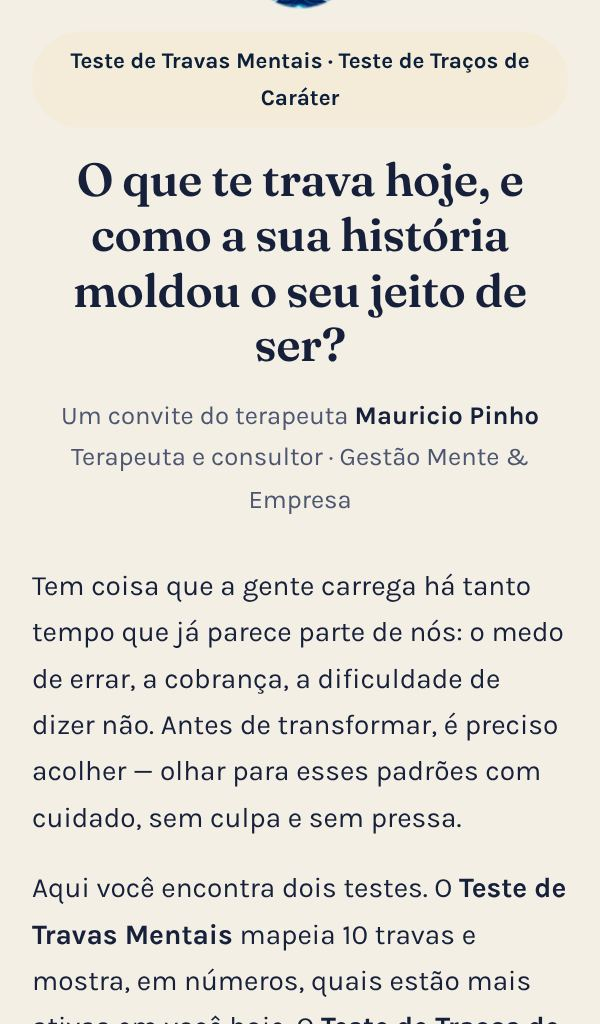
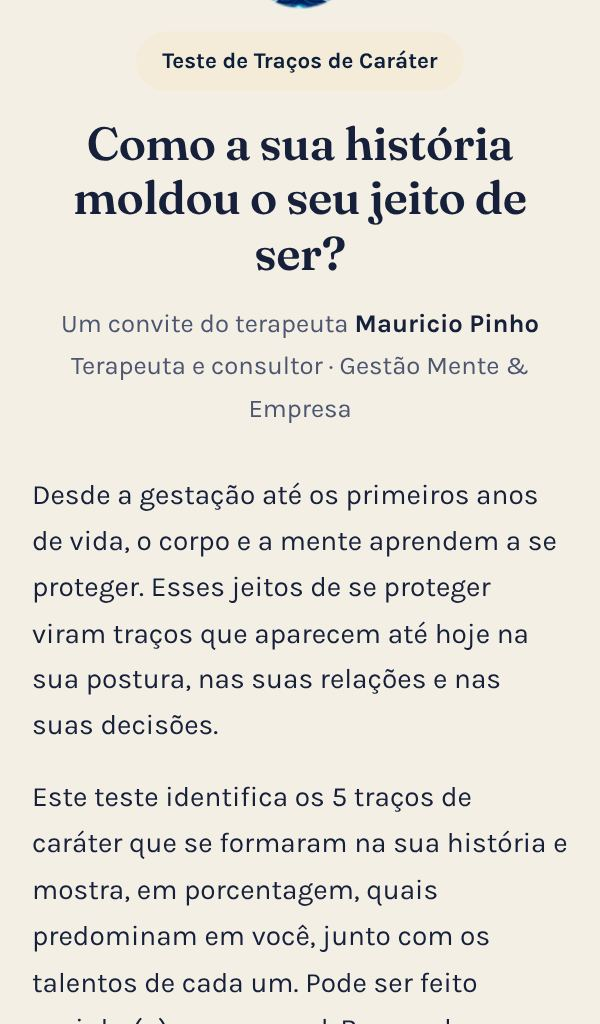
Teste de Traços de Caráter à venda para quem não tem o Teste de Travas (monta a página depois de pagar)
Claude-Session: https://claude.ai/code/session_01ABYTM9ydTnwZVq9ybeF7Jv

Changed region(s): [[0.06, 0.0312, 0.93, 0.7188], [0.06, 0.75, 0.96, 1.0], [0.9, 0.5, 0.93, 0.5312]]

diff --git a/produtos/tracos/index.html b/produtos/tracos/index.html
@@ -4,10 +4,10 @@
 <meta charset="utf-8">
 <meta name="viewport" content="width=device-width, initial-scale=1, viewport-fit=cover">
 <title>Teste de Traços de Caráter · Ressignificar</title>
-<meta name="description" content="O segundo teste da sua página: 5 traços de caráter em porcentagem, devolutiva completa, versão para casal com acordo assinado. R$ 97 por ano.">
+<meta name="description" content="A sua página de teste com o seu nome: 5 traços de caráter em porcentagem, devolutiva completa, versão para casal com acordo assinado. R$ 97 por ano.">
 <meta name="theme-color" content="#0B1F3A">
-<meta property="og:title" content="Teste de Traços de Caráter · O Teste de Travas mostra o que trava. Agora mostre de onde isso vem.">
-<meta property="og:description" content="Individual e em casal, na mesma página do seu Teste de Travas. Devolutiva pronta, acordo do casal assinado na tela.">
+<meta property="og:title" content="Teste de Traços de Caráter · Seu cliente descobre como a história dele moldou o jeito de ser">
+<meta property="og:description" content="Uma página de teste com o seu nome, individual e em casal. Devolutiva pronta, acordo do casal assinado na tela.">
 <meta property="og:image" content="https://ressignificarterapiaseconsultorias.com/produtos/img/tracos-casal.jpg">
 <link rel="icon" href="../../img/favicon.png">
 <link rel="preconnect" href="https://fonts.googleapis.com">
@@ -17,7 +17,6 @@
 <link rel="stylesheet" href="../produto.css">
 <style>
   .especial{background:#E9F6EC;color:#15502E;border:1px solid #B9DFC3;border-radius:10px;padding:10px 12px;font-weight:700;text-align:center;margin:0 0 12px}
-  .so-terapeuta{font-size:14px;text-align:center;margin:12px 0 0}
 </style>
 </head>
 <body>
@@ -35,14 +34,14 @@
 <section class="hero">
   <div class="w hero-grade">
     <div>
-      <span class="selo">Teste de Traços de Caráter · para quem já tem o Teste de Travas</span>
-      <h1>O Teste de Travas mostra o que trava. Agora mostre <em>de onde isso vem</em>.</h1>
-      <p class="lead">O segundo teste da sua página: 40 afirmações, os 5 traços de caráter em porcentagem e uma devolutiva completa, pronta para a sua sessão. Sozinho ou em casal, com a devolutiva de cada um e a dos dois.</p>
+      <span class="selo">Teste de Traços de Caráter · para terapeutas</span>
+      <h1>Seu cliente descobre <em>como a história dele moldou o jeito de ser</em>. Sozinho ou em casal.</h1>
+      <p class="lead">Uma página de teste com o seu nome e a sua foto: 40 afirmações, os 5 traços de caráter em porcentagem e uma devolutiva completa, pronta para a sua sessão. Já tem o Teste de Travas? O novo teste entra na mesma página.</p>
       <div class="cta-linha">
-        <a class="btn" href="#comprar">Quero o segundo teste na minha página</a>
-        <small>R$ 97 por ano · liberado na hora, na sua página</small>
+        <a class="btn" href="#comprar">Quero o meu Teste de Traços de Caráter</a>
+        <small>R$ 97 por ano · a sua página fica pronta em 2 minutos</small>
       </div>
-      <div class="garantias"><span>No mesmo link do seu teste</span><span>Individual e em casal</span><span>Devolutiva pronta em PDF</span></div>
+      <div class="garantias"><span>Página com o seu nome e a sua foto</span><span>Individual e em casal</span><span>Devolutiva pronta em PDF</span></div>
     </div>
     <div class="hero-telas" aria-hidden="true">
       <div class="tela-pc"><img src="../img/tracos-painel.jpg" alt="" width="1200" height="915"></div>
@@ -54,9 +53,9 @@
 <section class="dores">
   <div class="w">
     <span class="olho" style="color:var(--gold2)">Você já viveu isso</span>
-    <h2>Seu cliente vê as travas e pergunta: “mas por que eu sou assim?”</h2>
+    <h2>Seu cliente repete os mesmos padrões e pergunta: “mas por que eu sou assim?”</h2>
     <ul class="lista-dor">
-      <li>Você mostra o que pesa hoje, mas falta um mapa da raiz do padrão.</li>
+      <li>Você enxerga o padrão, mas falta um mapa que mostre a raiz dele.</li>
       <li>Casais chegam brigando pelo mesmo motivo e você não tem um mapa dos dois juntos.</li>
       <li>Montar uma devolutiva caprichada, com gráfico e plano, leva horas.</li>
       <li>O teste atrai, mas transformar o resultado em processo depende só de você.</li>
@@ -69,16 +68,16 @@
   <div class="w">
     <div class="centro">
       <span class="olho">Como funciona</span>
-      <h2>Tudo o que entra na sua página, em 5 telas</h2>
+      <h2>Tudo o que você recebe, em 5 telas</h2>
       <p class="lead">Estas são as telas reais do teste, com clientes fictícios.</p>
     </div>
 
     <div class="passo com-celular">
       <div>
         <span class="n">1</span>
-        <h3>Na sua página, agora dois testes</h3>
-        <p>A capa passa a apresentar o Teste de Travas e o Teste de Traços de Caráter. O código que você envia já abre o teste certo, individual ou de casal.</p>
-        <p class="ganho">Mais um motivo para o cliente clicar, no mesmo link que você já divulga.</p>
+        <h3>A sua página de teste, pronta</h3>
+        <p>Você escolhe o link, coloca o seu nome, a sua foto e as suas cores. O código que você envia já abre o teste certo, individual ou de casal. Se você já tem o Teste de Travas, o novo teste entra na mesma página e a capa apresenta os dois.</p>
+        <p class="ganho">Um link seu para divulgar no Instagram e no WhatsApp.</p>
       </div>
       <figure class="celular claro"><img style="aspect-ratio:600/1024" src="../img/tracos-capa.jpg" alt="Capa da página do teste apresentando o Teste de Travas Mentais e o Teste de Traços de Caráter" width="600" height="1024" loading="lazy"></figure>
     </div>
@@ -134,11 +133,11 @@
       <li><b>Leitura clínica das 40 respostas</b><small>Só na sua área, para preparar a sessão.</small></li>
       <li><b>Edite o texto antes de enviar</b><small>A devolutiva fica do seu jeito.</small></li>
       <li><b>PDF com a sua assinatura</b><small>Pronto para imprimir ou mandar.</small></li>
-      <li><b>Mesmo link, mesma página</b><small>Nada novo para divulgar.</small></li>
+      <li><b>Uma página sua</b><small>Com o seu nome, a sua foto e as suas cores.</small></li>
     </ul>
     <div class="compara">
-      <div class="sem"><h3>Sem o Teste de Traços de Caráter</h3><ul><li>Só as travas, sem a raiz do padrão</li><li>Casais sem um mapa dos dois</li><li>Devolutiva montada na mão</li><li>Proposta de acompanhamento do zero</li></ul></div>
-      <div class="com"><h3>Com o Teste de Traços de Caráter</h3><ul><li>Travas e traços na mesma página</li><li>Mapa do casal com acordo assinado</li><li>Devolutiva pronta em PDF</li><li>Apresentação do plano em um toque</li></ul></div>
+      <div class="sem"><h3>Sem o Teste de Traços de Caráter</h3><ul><li>Sem um mapa da raiz do padrão</li><li>Casais sem um mapa dos dois</li><li>Devolutiva montada na mão</li><li>Proposta de acompanhamento do zero</li></ul></div>
+      <div class="com"><h3>Com o Teste de Traços de Caráter</h3><ul><li>Os 5 traços em porcentagem, na sua página</li><li>Mapa do casal com acordo assinado</li><li>Devolutiva pronta em PDF</li><li>Apresentação do plano em um toque</li></ul></div>
     </div>
   </div>
 </section>
@@ -159,16 +158,16 @@
 
 <section id="assinar">
   <div class="w">
-    <div class="caixa" id="comprar" data-produto="tracos" data-nome="Teste de Traços de Caráter" data-preco="R$ 97/ano" data-so-cliente="1">
+    <div class="caixa" id="comprar" data-produto="tracos" data-nome="Teste de Traços de Caráter" data-preco="R$ 97/ano">
       <div class="resumo-compra"><b>Teste de Traços de Caráter</b><span>R$ 97/ano</span></div>
       <p class="especial" id="cEspecial" hidden></p>
       <div class="logada" id="cLogada" hidden>
         <span class="ini" id="cLogIni"></span>
-        <div>Olá, <b id="cLogNome"></b>! O teste vai para a sua página.<small id="cLogEmail"></small><a href="#" id="cSair">Não é você? Entrar com outra conta</a></div>
+        <div>Olá, <b id="cLogNome"></b>! O teste vai para a sua conta.<small id="cLogEmail"></small><a href="#" id="cSair">Não é você? Entrar com outra conta</a></div>
       </div>
-      <div class="compra-abas" id="cAbas" role="tablist" aria-label="Você já é cliente?" hidden>
-        <button type="button" role="tab" data-modo="nova" aria-selected="false">Sou nova por aqui</button>
-        <button type="button" role="tab" data-modo="cliente" aria-selected="true">Já sou cliente</button>
+      <div class="compra-abas" id="cAbas" role="tablist" aria-label="Você já é cliente?">
+        <button type="button" role="tab" data-modo="nova" aria-selected="true">Sou nova por aqui</button>
+        <button type="button" role="tab" data-modo="cliente" aria-selected="false">Já sou cliente</button>
       </div>
       <div class="ja-cliente" id="cJaCliente" role="alert"><b>Você já é cliente da Ressignificar!</b><span id="cJaTxt"></span><br><button type="button" id="cIrLogin">Entrar com a minha senha</button></div>
       <div class="pronto" id="cJaTem" hidden>
@@ -178,14 +177,14 @@
         <a class="btn" id="cJaTemLink" href="../../areademembros/">Abrir a minha página de teste</a>
       </div>
       <form id="cForm" novalidate>
-        <div data-so="nova" hidden>
+        <div data-so="nova">
           <div class="campo"><label for="cNome">Seu nome e sobrenome</label><input type="text" id="cNome" autocomplete="name" maxlength="80"></div>
           <div class="campo"><label for="cEmail">E-mail</label><input type="email" id="cEmail" autocomplete="email" maxlength="120" inputmode="email"></div>
-          <div class="campo"><label for="cZap">WhatsApp</label><input type="tel" id="cZap" autocomplete="tel" inputmode="tel"></div>
-          <div class="campo"><label for="cSenha">Senha</label><input type="password" id="cSenha" autocomplete="new-password"></div>
+          <div class="campo"><label for="cZap">WhatsApp</label><input type="tel" id="cZap" autocomplete="tel" inputmode="tel" placeholder="(81) 99999-9999"></div>
+          <div class="campo"><label for="cSenha">Crie uma senha</label><input type="password" id="cSenha" autocomplete="new-password" minlength="8"><p class="dica">Pelo menos 8 caracteres. É com ela que você entra na área da sua página.</p></div>
         </div>
-        <div data-so="cliente">
-          <p class="dica" style="margin:0 0 12px">Entre com a conta do seu Teste de Travas: o novo teste aparece na mesma página.</p>
+        <div data-so="cliente" hidden>
+          <p class="dica" style="margin:0 0 12px">Entre com a sua conta da Ressignificar. Se você já tem o Teste de Travas, o novo teste entra na mesma página.</p>
           <div class="campo"><label for="cEmailCli">E-mail da sua conta</label><input type="email" id="cEmailCli" autocomplete="username" maxlength="120" inputmode="email"></div>
           <div class="campo"><label for="cSenhaCli">Sua senha</label><input type="password" id="cSenhaCli" autocomplete="current-password"></div>
           <a class="esqueci" id="cEsqueci" href="#" target="_blank" rel="noopener">Esqueci a minha senha</a>
@@ -193,8 +192,7 @@
         <div class="aviso" id="cAviso" role="alert"></div>
         <button class="btn" type="submit" id="cBotao" style="width:100%">Assinar agora · R$ 97/ano</button>
         <p class="seguro">🔒 Pagamento seguro pela InfinitePay · Pix ou cartão</p>
-        <p class="dica" style="text-align:center">Assim que o pagamento é confirmado, o teste aparece na sua página, ao lado do Teste de Travas.</p>
-        <p class="so-terapeuta">Ainda não tem o Teste de Travas? <a href="../../teste-de-travas/">Conheça primeiro →</a></p>
+        <p class="dica" style="text-align:center">Assim que o pagamento é confirmado: se você já tem o Teste de Travas, o novo teste aparece na mesma página; se ainda não tem, você monta a sua página em 2 minutos.</p>
       </form>
     </div>
   </div>
@@ -203,8 +201,8 @@
 <section class="faixa">
   <div class="w faq" style="max-width:760px">
     <h2 class="centro">Perguntas frequentes</h2>
-    <details><summary>Preciso ter o Teste de Travas?</summary><p>Sim. O Teste de Traços de Caráter entra na sua página do Teste de Travas, no mesmo link. Para assinar, entre com o e-mail e a senha da conta do seu teste.</p></details>
-    <details><summary>Como o teste é liberado?</summary><p>Assim que o pagamento é confirmado, o teste aparece sozinho na sua página e na sua área, com a opção de gerar códigos individuais ou de casal.</p></details>
+    <details><summary>Preciso ter o Teste de Travas?</summary><p>Não. Se você ainda não tem, depois do pagamento você monta a sua página em 2 minutos (nome, foto, cores e link), só com o Teste de Traços de Caráter. Se você já tem o Teste de Travas, entre com a sua conta: o novo teste entra na mesma página, no mesmo link.</p></details>
+    <details><summary>Como o teste é liberado?</summary><p>Assim que o pagamento é confirmado, você monta a sua página (ou, se já tem uma, o teste aparece nela sozinho). Na área da sua página você gera códigos individuais ou de casal e vê as respostas.</p></details>
     <details><summary>Como funciona o teste em casal?</summary><p>Você gera um código de casal. Cada um responde no próprio celular, com o mesmo código (ou juntos, no mesmo aparelho). Quem termina vê a sua devolutiva individual; quando os dois terminam, aparece a do casal, com o acordo para os dois assinarem.</p></details>
     <details><summary>Os nomes dos traços assustam o cliente?</summary><p>A devolutiva começa explicando que os nomes vêm da psicanálise e descrevem estilos de funcionamento, não doenças. Cada traço aparece junto com os talentos que traz.</p></details>
     <details><summary>Como pago a renovação?</summary><p>A assinatura é anual. Nos 5 dias antes do vencimento você recebe um e-mail por dia, com o link para renovar. Se passar da data, os avisos continuam até o pagamento, e ao pagar chega a confirmação.</p></details>

diff --git a/teste-de-travas/ativar/index.html b/teste-de-travas/ativar/index.html
@@ -204,6 +204,7 @@
       if (j.__status === 404 || !j.ok) { mostrar("eInvalido"); return; }
       pedido = j;
       if (j.status === "ativado" && j.pagina) { pronto(j.pagina, j.email, null, j.nome); return; }
+      if (j.produto_chave === "tracos") modoTracos();
       if (j.status === "pago" || j.status === "ativando") { abrirForm(j); return; }
       if (j.status === "cancelado") { mostrar("eInvalido"); return; }
       tentativas++;
@@ -227,6 +228,19 @@
   $("#btnDeNovo").addEventListener("click", function () { tentativas = veioDoPagamento ? 30 : 0; mostrar("eConferindo"); conferir(); });
   $("#novaCompra").addEventListener("click", function () { try { localStorage.removeItem("travas_pedido"); } catch (e) {} });
 
+  /* compra do Teste de Traços de Caráter sem ter página: os textos falam desse teste */
+  function modoTracos() {
+    if (document.body.dataset.tracos) return; document.body.dataset.tracos = "1";
+    document.title = "Montar a minha página · Teste de Traços de Caráter";
+    var sm = document.querySelector(".marca small"); if (sm) sm.textContent = "Teste de Traços de Caráter";
+    var h = document.querySelector("#eForm h2"); if (h) h.textContent = "Agora vamos montar a sua página";
+    var l = document.querySelector("#eForm .lead"); if (l) l.textContent = "Leva 2 minutos. É a página do seu Teste de Traços de Caráter, com o seu nome e a sua foto: tudo isso aparece para os seus clientes.";
+    $("#btnCriar").textContent = "Criar a minha página";
+    var hp = document.querySelector("#ePronto h2"); if (hp) hp.textContent = "Sua página está pronta!";
+    var lp = document.querySelector("#ePronto .lead"); if (lp) lp.textContent = "Este é o link da sua página do Teste de Traços de Caráter. É ele que você manda para os seus clientes.";
+    $("#btnAbrir").textContent = "Abrir a minha página";
+    document.querySelectorAll("[data-wa]").forEach(function (a) { a.setAttribute("data-wa", a.getAttribute("data-wa").replace(/Teste de Travas Mentais|Teste de Travas/g, "Teste de Traços de Caráter")); });
+  }
   function abrirForm(j) {
     $("#fNome").value = j.nome || ""; $("#fZap").value = zapFormatado(j.whatsapp);
     $("#emailLogin").textContent = j.email; $("#emailLogin2").textContent = j.email;
@@ -234,7 +248,7 @@
     atualizaInicial();
     sugerirLink();
     mostrar("eForm");
-    if (!sessionStorage.getItem("travas_compra_" + token)) {
+    if (j.produto_chave !== "tracos" && !sessionStorage.getItem("travas_compra_" + token)) {
       try { sessionStorage.setItem("travas_compra_" + token, "1"); } catch (e) {}
       window.dataLayer = window.dataLayer || []; window.dataLayer.push({ event: "compra_teste_travas", value: 147, currency: "BRL" });
       if (window.gtag) gtag("event", "purchase", { value: 147, currency: "BRL", items: [{ item_name: "Teste de Travas Mentais" }] });
@@ -321,15 +335,15 @@
       if (senha.length < 8) return erro("Crie uma senha com pelo menos 8 caracteres.", $("#fSenha"));
       if (senha !== $("#fSenha2").value) return erro("As duas senhas não são iguais.", $("#fSenha2"));
     }
-    var b = $("#btnCriar"); b.disabled = true; b.textContent = "Criando o seu teste…";
+    var b = $("#btnCriar"); b.disabled = true; b.textContent = document.body.dataset.tracos ? "Criando a sua página…" : "Criando o seu teste…";
     chamar({ acao: "ativar", token: token, nome: nome, genero: genero, titulo: $("#fTitulo").value, registro: $("#fRegistro").value,
              frase: $("#fFrase").value, whatsapp: zap, instagram: $("#fInsta").value, foto: fotoDados, paleta: paleta,
              senha: pedido.conta_existente ? "" : senha, link: link })
       .then(function (j) {
-        if (!j.ok) throw new Error(j.erro || "Não foi possível criar o teste.");
+        if (!j.ok) throw new Error(j.erro || "Não foi possível criar a página.");
         pronto(j.pagina, j.email, genero, nome);
       })
-      .catch(function (err) { b.disabled = false; b.textContent = "Criar o meu teste"; erro(err.message, /link/i.test(err.message) ? $("#fLink") : null); if (/link/i.test(err.message)) conferirLink(); });
+      .catch(function (err) { b.disabled = false; b.textContent = document.body.dataset.tracos ? "Criar a minha página" : "Criar o meu teste"; erro(err.message, /link/i.test(err.message) ? $("#fLink") : null); if (/link/i.test(err.message)) conferirLink(); });
   });
 
   $("#btnCopiar").addEventListener("click", function () {

diff --git a/teste/devolutiva-carater.js b/teste/devolutiva-carater.js
@@ -785,3 +785,42 @@ function dvCapaVendas(){
     alvos.forEach(a => io.observe(a));
   }
 }
+
+
+/* ============================================================================
+   PÁGINA SÓ COM O TESTE DE TRAÇOS DE CARÁTER (terapeuta que não comprou o Teste de Travas)
+   A capa fala só desse teste e a área da terapeuta já abre nele. O Teste de Travas só entra se ela comprar.
+   ============================================================================ */
+function dvSoTracos(){
+  const capa = document.getElementById('tela-capa'); if(!capa || capa.dataset.soTracos) return;
+  capa.dataset.soTracos = '1';
+  const quem = dvQuem(), lt = capa.querySelector('.lado-texto') || capa;
+  const selo = lt.querySelector('.selo'); if(selo) selo.textContent = 'Teste de Traços de Caráter';
+  const h1 = lt.querySelector('h1'); if(h1) h1.textContent = 'Como a sua história moldou o seu jeito de ser?';
+  const ps = lt.querySelectorAll('.texto-capa');
+  if(ps[0]) ps[0].innerHTML = 'Desde a gestação até os primeiros anos de vida, o corpo e a mente aprendem a se proteger. Esses jeitos de se proteger viram traços que aparecem até hoje na sua postura, nas suas relações e nas suas decisões.';
+  if(ps[1]) ps[1].innerHTML = 'Este teste identifica os 5 traços de caráter que se formaram na sua história e mostra, em porcentagem, quais predominam em você, junto com os talentos de cada um. Pode ser feito sozinho(a) ou em casal. Responda com sinceridade e no seu tempo: ninguém vê as suas respostas além d' + escV(quem) + '.';
+  const ul = lt.querySelector('.lista-leve');
+  if(ul) ul.innerHTML = '<li>40 afirmações, de 8 a 12 minutos</li><li>Sozinho(a) ou em casal: no casal, cada um recebe a sua devolutiva e vocês recebem a do casal</li>' +
+    '<li>O código que você recebeu já abre o teste</li><li>O resultado vai direto para ' + escV(quem) + ', para vocês conversarem a partir dele</li>';
+  document.title = 'Teste de Traços de Caráter' + (window.T_NOME ? ' · ' + T_NOME : '');
+  /* área da terapeuta: só o Teste de Traços de Caráter */
+  const alt = document.getElementById('alt-teste'); if(alt && alt.closest('.campo')) alt.closest('.campo').style.display = 'none';
+  const abrirTracos = () => { const b = document.querySelector('#alt-teste [data-v=tracos]'); if(b && !b.classList.contains('ativa')) b.click(); };
+  if(typeof window.entrarNoPainel === 'function'){
+    const entrar = window.entrarNoPainel;
+    window.entrarNoPainel = function(){ const r = entrar.apply(this, arguments); abrirTracos(); return r; };
+  }
+  const adm = document.getElementById('painel-admin');
+  if(adm && 'MutationObserver' in window) new MutationObserver(() => { if(adm.classList.contains('ver')) abrirTracos(); }).observe(adm, { attributes:true, attributeFilter:['class'] });
+}
+/* nenhum teste ativo (ex.: assinatura suspensa por falta de pagamento) */
+function dvSemTeste(){
+  const capa = document.getElementById('tela-capa'); if(!capa || capa.dataset.semTeste) return;
+  capa.dataset.semTeste = '1';
+  const quem = dvQuem(), lt = capa.querySelector('.lado-texto') || capa;
+  const h1 = lt.querySelector('h1'); if(h1) h1.textContent = 'Teste indisponível no momento';
+  lt.querySelectorAll('.texto-capa, .lista-leve, .cartao').forEach(x => x.remove());
+  const selo = lt.querySelector('.selo'); if(selo) selo.remove();
+  (h1 || lt).insertAdjacentHTML('afterend', '<p class="texto-capa">Este teste está temporariamente indisponível. Se você recebeu um código, fale com ' + escV(quem) + ' pelo WhatsApp.</p>');
+}

diff --git a/areademembros/painel-cliente.html b/areademembros/painel-cliente.html
@@ -205,10 +205,15 @@
   try {
     const [rt, rpg] = await Promise.all([
       supa().from("travas_terapeutas").select("perfil_id").eq("perfil_id", eu.id).maybeSingle(),
-      supa().from("travas_paginas").select("slug").eq("terapeuta_id", eu.id).maybeSingle()
+      supa().from("travas_paginas").select("slug,dados").eq("terapeuta_id", eu.id).maybeSingle()
     ]);
-    temTravas = !!rt.data;
+    /* a página pode ter o Teste de Travas, o de Traços de Caráter ou os dois */
+    const testesPg = rpg.data && rpg.data.dados && Array.isArray(rpg.data.dados.testes) ? rpg.data.dados.testes : null;
+    const temTravasPg = !testesPg || testesPg.indexOf("travas") > -1, temTracosPg = !!testesPg && testesPg.indexOf("tracos") > -1;
+    temTravas = !!rt.data && temTravasPg;
     if (rpg.data && rpg.data.slug) {
+      const tituloT = document.querySelector("#cartaoTravas h2");
+      if (tituloT) tituloT.textContent = temTravasPg && temTracosPg ? "Seus testes: Travas Mentais e Traços de Caráter" : temTravasPg ? "Seu Teste de Travas Mentais" : "Seu Teste de Traços de Caráter";
       const linkTeste = "https://ressignificarterapiaseconsultorias.com/teste/?t=" + encodeURIComponent(rpg.data.slug);
       document.getElementById("travasLink").value = linkTeste;
       document.getElementById("travasVer").href = linkTeste;
@@ -231,8 +236,8 @@
     ]);
     const jaTem = new Set((rcp.data || []).map(function (x) { return x.produto_id; }));
     if ((rp.data || []).some(function (x) { return x.chave === "clinica" && jaTem.has(x.id); })) document.getElementById("cartaoClinicaOt").hidden = false;
-    /* não oferece o que a pessoa já comprou (nem o Teste de Travas para quem já tem o teste; o de Traços só para quem tem o de Travas) */
-    const prods = (rp.data || []).filter(function (x) { return !jaTem.has(x.id) && !(temTravas && x.chave === "travas") && !(!temTravas && x.chave === "tracos"); }), pedidos = new Set((ri.data || []).map(function (i) { return i.produto_id; }));
+    /* não oferece o que a pessoa já comprou (nem o Teste de Travas para quem já tem o teste) */
+    const prods = (rp.data || []).filter(function (x) { return !jaTem.has(x.id) && !(temTravas && x.chave === "travas"); }), pedidos = new Set((ri.data || []).map(function (i) { return i.produto_id; }));
     if (prods.length) {
       const nomes = document.getElementById("ofertasNomes"); nomes.innerHTML = "";
       prods.forEach(function (x) {

diff --git a/teste/index.html b/teste/index.html
@@ -527,7 +527,7 @@ body.com-tempo{padding-top:60px}
 #dica-codigo.pronto{color:#1B6B3E;font-weight:600;font-size:15.5px;line-height:1.4}
 #dica-codigo .ok-pre{display:inline-flex;align-items:center;justify-content:center;width:20px;height:20px;border-radius:50%;background:#1B6B3E;color:#fff;font-size:12px;font-weight:800;margin-right:6px;vertical-align:1px}
 </style>
-<meta name="versao-site" content="v202611070156">
+<meta name="versao-site" content="v202611070322">
 <style id="css-atualizacao">
 .versao-site{font-size:11.5px;color:var(--tinta-suave);opacity:.75;margin-top:10px;text-align:center;letter-spacing:.02em}
 #atu-banner{position:fixed;left:10px;right:10px;top:10px;z-index:3500;display:flex;align-items:center;gap:12px;flex-wrap:wrap;justify-content:space-between;background:#FFF1BF;border:1.6px solid #E8C24A;color:#5C4500;border-radius:14px;padding:12px 14px;font-size:15.5px;line-height:1.35;box-shadow:0 8px 24px rgba(0,0,0,.18)}
@@ -3711,9 +3711,12 @@ async function tcDetalheCasal(codigo){
 /* página inicial fala dos dois testes (no domínio, só para quem tem o Traços de Caráter liberado);
    a versão de vendas (individual e casal) liga com dados.capa_vendas */
 (function(){
-  const d = window.__T && window.__T.dados, tracos = !d || (Array.isArray(d.testes) && d.testes.indexOf('tracos') > -1);
-  if(tracos) dvCapaDoisTestes();
-  if(tracos && (!d || d.capa_vendas)) dvCapaVendas();
+  const d = window.__T && window.__T.dados, lista = d && Array.isArray(d.testes) ? d.testes : null;
+  const tracos = !d || (lista && lista.indexOf('tracos') > -1), travas = !lista || lista.indexOf('travas') > -1;
+  if(tracos && travas) dvCapaDoisTestes();
+  if(tracos && !travas) dvSoTracos();                  // comprou só o Teste de Traços de Caráter
+  if(!tracos && !travas) dvSemTeste();                 // nenhum teste ativo (ex.: assinatura suspensa)
+  if(tracos && travas && (!d || d.capa_vendas)) dvCapaVendas();
 })();
 /* O Teste de Traços de Caráter só aparece na área de quem tem o teste liberado (travas_paginas.dados.testes) */
 (function(){ const d = window.__T && __T.dados, ok = !!(d && Array.isArray(d.testes) && d.testes.indexOf('tracos') > -1);

diff --git a/produtos/obrigado/index.html b/produtos/obrigado/index.html
@@ -59,7 +59,7 @@
   var $ = function (s) { return document.getElementById(s); };
   var q = new URLSearchParams(location.search);
   var token = (q.get("p") || "").toLowerCase();
-  if (!token) { try { token = localStorage.getItem("loja_pedido_dre") || localStorage.getItem("loja_pedido_clinica") || ""; } catch (e) {} }
+  if (!token) { try { token = localStorage.getItem("loja_pedido_dre") || localStorage.getItem("loja_pedido_clinica") || localStorage.getItem("loja_pedido_tracos") || ""; } catch (e) {} }
   var retorno = { transaction_nsu: q.get("transaction_nsu") || "", slug: q.get("slug") || "" };
   var veioPago = !!retorno.transaction_nsu, tentativas = 0;
   document.addEventListener("click", function (ev) {
@@ -73,10 +73,14 @@
       .then(function (r) { return r.json(); })
       .then(function (j) {
         if (!j.ok) { mostrar("eErro"); return; }
+        if (j.montar) {   /* comprou o Teste de Traços de Caráter sem ter página de teste: vai montar a página (2 minutos) */
+          $("txtCarregando").textContent = "Pagamento confirmado! Abrindo a montagem da sua página…";
+          location.href = j.montar; return;
+        }
         if (j.status === "ativado" && j.destino) {
           try { localStorage.removeItem("loja_pedido_" + j.produto_chave); } catch (e) {}
           $("prontoTitulo").textContent = "Pronto" + (j.nome ? ", " + j.nome : "") + "!";
-          $("prontoTxt").textContent = (j.produto || "O seu produto") + (j.produto_chave === "tracos" ? " já está liberado na sua página de teste, ao lado do Teste de Travas." : " já está liberado na sua Área de Membros.");
+          $("prontoTxt").textContent = (j.produto || "O seu produto") + (j.produto_chave === "tracos" ? " já está liberado na sua página de teste." : " já está liberado na sua Área de Membros.");
           $("prontoBtn").href = j.destino;
           $("prontoBtn").textContent = j.produto_chave === "clinica" ? "Abrir a minha clínica" : j.produto_chave === "tracos" ? "Abrir a minha página de teste" : "Abrir a minha DRE";
           $("prontoDica").textContent = "Se pedir login, entre com " + j.email + " e a sua senha. Também mandamos um e-mail com o link.";
